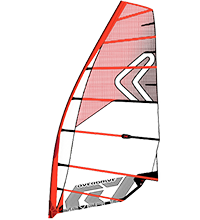
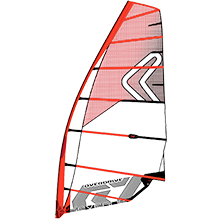
resources infos

Changed region(s): [[0.24, 0.0, 0.81, 1.0], [0.48, 0.4909, 0.51, 0.5182]]

diff --git a/app/CahierMaterielElements.css b/app/CahierMaterielElements.css
@@ -155,7 +155,7 @@
             z-index: 0;
             background-image: url(Img/IconChose.png), url(Img/Materiel/Sail.png);
             background-repeat: no-repeat, no-repeat;
-            background-size: 0px, 200px;
+            background-size: 0px, 215px;
             background-position-x: 100px,0px;
             background-position-y: 100px,0px;
             transition: all 0.2s linear 0s;
@@ -305,18 +305,101 @@
 
 
 #divTabCahierMaterielElementsPopUp {
-    position:relative;
-    left:50%;
-    margin-left:-350px;
-    top:50%;
-    margin-top:-225px;
-    width:700px;
-    height:450px;
+    position: relative;
+    left: 50%;
+    margin-left: -350px;
+    top: 50%;
+    margin-top: -225px;
+    width: 700px;
+    height: 450px;
 }
 
-#divTabCahierMaterielElementsPopUp> div:nth-child(1) {
-    position:absolute;
-    right:10px;
-    top:10px;
-    background-image:url(Img/IconCancel.png);
+#divTabCahierMaterielElementsPopUp > div:nth-child(1) {
+    position: absolute;
+    right: 10px;
+    top: 10px;
+    width: 30px;
+    height: 30px;
+    background-image: url(Img/IconCancelBlack.png);
+    background-repeat: no-repeat;
+    background-position-x: right;
+    opacity: 0.5;
+    z-index: 4;
+    transition: all 0.1s linear 0s;
+}
+#divTabCahierMaterielElementsPopUp > div:nth-child(1):hover {
+    opacity: 1;
+}
+#divTabCahierMaterielElementsPopUp > div:nth-child(2) {
+    position: absolute;
+    left: 20px;
+    top: 20px;
+    width: 215px;
+    height: 220px;
+    background-image: url(Img/Materiel/Sail.png);
+    background-repeat: no-repeat;
+    border-radius: 10px;
+    border: 2px solid lightgray;
+    -moz-box-shadow: 1px 1px 10px 0px rgba(0,0,0,0.75);
+    -webkit-box-shadow: 1px 1px 10px 0px rgba(0,0,0,0.75);
+    box-shadow: 1px 1px 10px 0px rgba(0,0,0,0.75);
+}
+#divTabCahierMaterielElementsPopUp > div:nth-child(3) {
+    position: absolute;
+    left: 20px;
+    margin-left:10px;
+    top: 260px;
+    width: 660px;
+    height: 40px;
+    font-size:25px;
+}
+#divTabCahierMaterielElementsPopUp > div:nth-child(4) {
+    position: absolute;
+    left: 20px;
+    top: 290px;
+    width: 495px;
+    height: 140px;
+    border-radius: 10px;
+    border: 2px solid lightgray;
+    box-sizing:border-box;
+    padding:8px;
+    /*-moz-box-shadow: 1px 1px 10px 0px rgba(0,0,0,0.75);
+    -webkit-box-shadow: 1px 1px 10px 0px rgba(0,0,0,0.75);
+    box-shadow: 1px 1px 10px 0px rgba(0,0,0,0.75);*/
+}
+#divTabCahierMaterielElementsPopUp >  .ValidateButtons{
+    position: absolute;
+    right: 20px;
+    top: 376px;
+    width: 145px;
+}
+#divTabCahierMaterielElementsPopUp > .ReturnButtons{
+    position: absolute;
+    right: 20px;
+    top: 290px;
+    width: 145px;
+    margin-left:0px;
+}
+#divTabCahierMaterielElementsPopUp > .ReturnButtons::after{
+    content:none;
+}
+
+
+    #divTabCahierMaterielElementsContainerTextsContainer {
+        position: absolute;
+        left: 260px;
+        top: 20px;
+        width: 420px;
+        min-height: 20px;
+        font-size: 25px;
+    }
+#divTabCahierMaterielElementsContainerTextsContainer > div {
+    position:relative;
+    min-height:20px;
+    margin-bottom:5px;
+}
+
+#divTabCahierMaterielElementsContainerTextsContainer > div:nth-child(2) {
+    font-size:20px;
+    color:darkgray;
 }

diff --git a/app/Bottom.js b/app/Bottom.js
@@ -1,48 +1,10 @@
-var b = [];
-var divBottomsCounter = 0;
-function AdjustBottomBar(tab = $("divTabCahier")) {
-
-    b[divBottomsCounter] = document.createElement("div");
-    b[divBottomsCounter].className = "divBottoms";
-    tab.appendChild(b[divBottomsCounter]);
-    b[divBottomsCounter].innerHTML = divBottomsCounter;
-
-    if (divBottomsCounter == 0) {
-        divBottomsCounter++;
-    }
-    else {
-        divBottomsCounter--;
-    }
-
-    b[divBottomsCounter] = "";
-
-
-
-
-    //$("divBottom").style.top = "-100px";
-
-    //let scrollHeight = Math.max( //Full document height, with scrolled out part: 
-    //    document.body.scrollHeight, document.documentElement.scrollHeight,
-    //    document.body.offsetHeight, document.documentElement.offsetHeight,
-    //    document.body.clientHeight, document.documentElement.clientHeight
-    //);
-
-    //if (scrollHeight + 5 > heightScreen && scrollHeight - 5 < heightScreen) {
-    //  //  $("divBottom").style.top = (scrollHeight - 100) + "px";
-    //}
-    //else {
-    //   // $("divBottom").style.top = (scrollHeight + 0) + "px";
-    //}
-
-    //$("divBottom").innerHTML = scrollHeight + " -100 ";
-}
-
-
 function loadSpacers() {
     var allDivTabs = document.getElementsByClassName("divTab"); 
     for (var i = 0; i < allDivTabs.length; i++) {
-        var s = document.createElement("div");
+        var s = div(allDivTabs[i]);
         s.className = "divSpacers";
-        allDivTabs[i].appendChild(s);
+
+        var b = div(allDivTabs[i]);
+        b.className = "divBottoms";
     }
 }

diff --git a/app/Screen.js b/app/Screen.js
@@ -76,8 +76,6 @@ function AdjustScreen(w, h) {
 
     $("divTopBarTopText").style.marginLeft = -3/2 * d + "px";
     $("divTopBarTopText").style.width = 3 * d + "px";
-
-    AdjustBottomBar();
 }
 
 
@@ -117,8 +115,6 @@ var currentTabElement;// = $("divTabCahier"); //see load for the first element =
 var changeTime = 0.3;
 
 function changeTab(newElement, sign) {
-
-    AdjustBottomBar(newElement);
 
     stillMoving = true;
 

diff --git a/app/General.css b/app/General.css
@@ -160,7 +160,7 @@ option {
     width: 155px;
     height: 44px;
     padding-top: 10px;
-    margin-left: 2.5%;
+    margin-left: 0%; /*changed*/
     margin-top: 0px;
     margin-bottom: 4px;
     padding-left: 10px;
@@ -210,6 +210,7 @@ option {
     padding-left: 0px;
     padding-right: 10px;
     font-size: 20px;
+    margin-left: 2.5%; /*changed*/
 }
 .ReturnButtons::after{
     content:"Retour";

diff --git a/app/index.html b/app/index.html
@@ -56,8 +56,8 @@
     <div id="divModalContainer"></div>
 
     <!-- Top Bar -->
-    <div id="divTopBar" onclick="openPopUp();">
-        <img id="imgTopBarIchtusLogo" src="Img/IchtusLogo.png"/>
+    <div id="divTopBar">
+        <img id="imgTopBarIchtusLogo" src="Img/IchtusLogo.png" onclick="alert('')"/>
         <img id="imgTopBarIchtusText" src="Img/IchtusText.jpg" />
 
 
